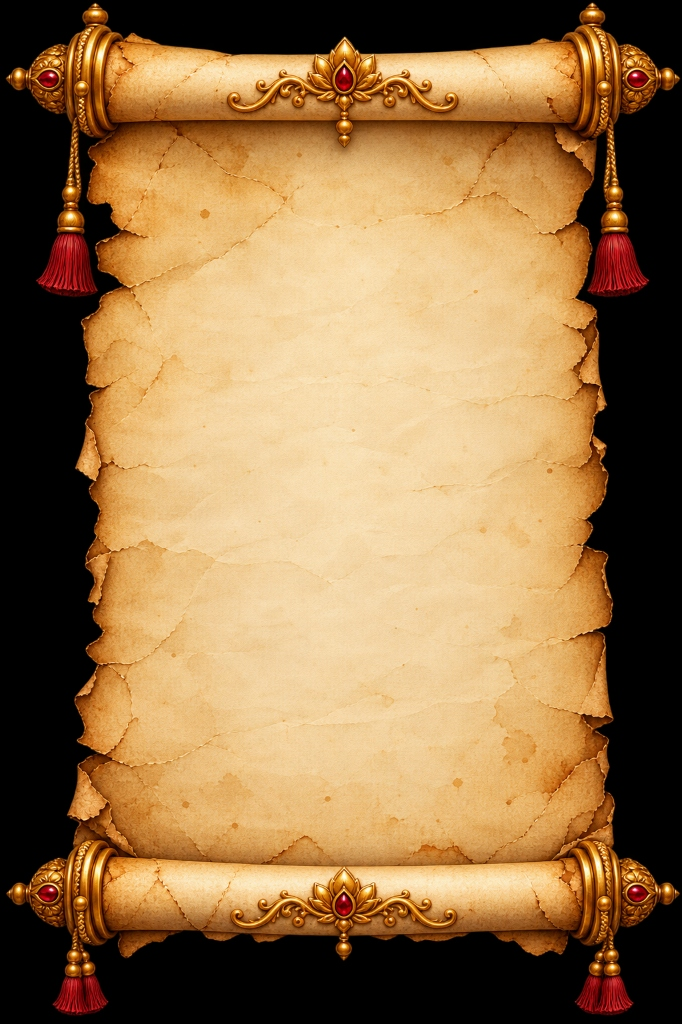
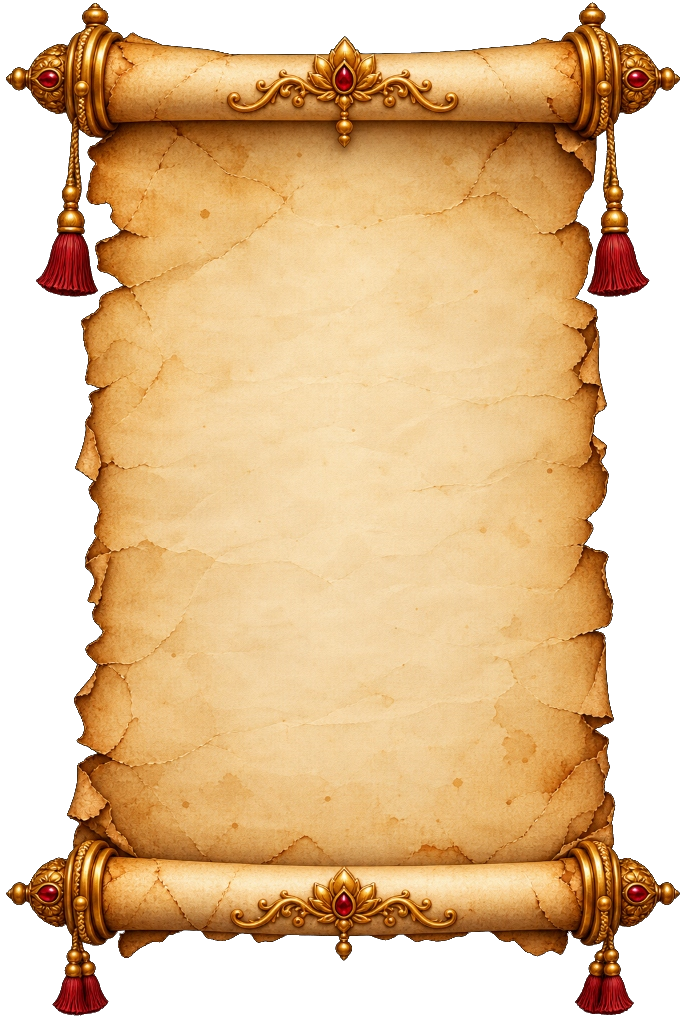
Fix parchment scroll background to pure transparent PNG and refine modal styling

diff --git a/css/style.css b/css/style.css
@@ -2426,14 +2426,14 @@ body {
 .guide-scroll-backdrop {
   position: fixed;
   inset: 0;
-  background: rgba(18, 6, 3, 0.82);
+  background: radial-gradient(circle at 50% 45%, rgba(45, 18, 10, 0.65) 0%, rgba(15, 5, 2, 0.82) 100%);
   backdrop-filter: blur(8px);
   -webkit-backdrop-filter: blur(8px);
-  z-index: 220;
+  z-index: 250;
   display: flex;
   justify-content: center;
   align-items: center;
-  padding: 12px;
+  padding: 10px;
   opacity: 0;
   pointer-events: none;
   transition: opacity 0.4s cubic-bezier(0.16, 1, 0.3, 1);
@@ -2448,29 +2448,29 @@ body {
   position: relative;
   width: 100%;
   max-width: 400px;
-  height: 620px;
+  aspect-ratio: 682 / 1024;
   max-height: 92vh;
   max-height: 92dvh;
   display: flex;
   justify-content: center;
   align-items: center;
-  transform: scale(0.85) translateY(24px);
+  transform: scale(0.88) translateY(20px);
   transition: transform 0.45s cubic-bezier(0.175, 0.885, 0.32, 1.25);
-  filter: drop-shadow(0 20px 40px rgba(0, 0, 0, 0.85));
+  filter: drop-shadow(0 15px 35px rgba(0, 0, 0, 0.75)) drop-shadow(0 0 20px rgba(245, 158, 11, 0.2));
 }
 
 .guide-scroll-backdrop.active .parchment-scroll-container {
   transform: scale(1) translateY(0);
 }
 
-/* Background image of the parchment scroll */
+/* Background image of the transparent parchment scroll */
 .parchment-bg-img {
   position: absolute;
   top: 0;
   left: 0;
   width: 100%;
   height: 100%;
-  object-fit: fill;
+  object-fit: contain;
   pointer-events: none;
   z-index: 1;
 }
@@ -2478,64 +2478,58 @@ body {
 /* Close button on top-right of the parchment */
 .parchment-close-btn {
   position: absolute;
-  top: 8px;
-  right: 12px;
-  width: 34px;
-  height: 34px;
+  top: 4%;
+  right: 5%;
+  width: 32px;
+  height: 32px;
   border-radius: 50%;
-  background: rgba(74, 21, 10, 0.85);
+  background: rgba(90, 20, 10, 0.9);
   border: 1.5px solid #F59E0B;
   color: #FFFDF9;
-  font-size: 1.4rem;
+  font-size: 1.25rem;
   line-height: 1;
   display: flex;
   align-items: center;
   justify-content: center;
   cursor: pointer;
   z-index: 10;
-  box-shadow: 0 4px 12px rgba(0, 0, 0, 0.4);
+  box-shadow: 0 4px 14px rgba(0, 0, 0, 0.5);
   transition: all 0.2s ease;
 }
 
 .parchment-close-btn:hover {
   background: var(--color-saffron);
-  transform: scale(1.08);
+  transform: scale(1.1);
 }
 
-/* Inner content area strictly inside the parchment roll bounds */
+/* Inner content area strictly inside the 2:3 parchment paper boundaries */
 .parchment-content-body {
   position: relative;
   z-index: 2;
   width: 100%;
   height: 100%;
-  padding: 85px 36px 75px 36px;
+  padding: 16.5% 17% 17.5% 17%;
   display: flex;
   flex-direction: column;
   justify-content: space-between;
   overflow-y: auto;
-  scrollbar-width: thin;
-  scrollbar-color: rgba(123, 30, 16, 0.35) transparent;
+  scrollbar-width: none;
 }
 
 .parchment-content-body::-webkit-scrollbar {
-  width: 4px;
-}
-
-.parchment-content-body::-webkit-scrollbar-thumb {
-  background: rgba(123, 30, 16, 0.35);
-  border-radius: 4px;
+  display: none;
 }
 
 /* Parchment Header */
 .parchment-header {
   text-align: center;
-  margin-bottom: 8px;
+  margin-bottom: 4px;
 }
 
 .parchment-om-badge {
   display: inline-block;
   font-family: var(--font-heading);
-  font-size: 0.82rem;
+  font-size: 0.76rem;
   font-weight: 700;
   color: #7B1E10;
   letter-spacing: 1px;
@@ -2544,17 +2538,17 @@ body {
 
 .parchment-title {
   font-family: var(--font-heading);
-  font-size: 1.25rem;
-  line-height: 1.25;
-  color: #4A150A;
-  margin-bottom: 4px;
-  text-shadow: 0 1px 1px rgba(255, 255, 255, 0.6);
+  font-size: 1.15rem;
+  line-height: 1.2;
+  color: #3E1006;
+  margin-bottom: 3px;
+  text-shadow: 0 1px 1px rgba(255, 255, 255, 0.7);
 }
 
 .parchment-intro {
-  font-size: 0.76rem;
-  line-height: 1.35;
-  color: #6E2D1D;
+  font-size: 0.68rem;
+  line-height: 1.3;
+  color: #632213;
   font-weight: 500;
 }
 
@@ -2562,43 +2556,43 @@ body {
 .parchment-steps-list {
   display: flex;
   flex-direction: column;
-  gap: 8px;
-  margin: 6px 0;
+  gap: 7px;
+  margin: 4px 0;
 }
 
 .parchment-step-item {
   display: flex;
   align-items: center;
-  gap: 12px;
-  background: rgba(255, 255, 255, 0.45);
-  border: 1px solid rgba(192, 122, 16, 0.3);
-  border-radius: 12px;
-  padding: 7px 10px;
-  box-shadow: 0 2px 6px rgba(123, 30, 16, 0.05);
+  gap: 10px;
+  background: rgba(255, 248, 235, 0.55);
+  border: 1px solid rgba(192, 122, 16, 0.35);
+  border-radius: 10px;
+  padding: 6px 9px;
+  box-shadow: 0 2px 5px rgba(123, 30, 16, 0.04);
 }
 
 .step-icon-wrap {
   flex-shrink: 0;
-  width: 38px;
-  height: 42px;
+  width: 34px;
+  height: 36px;
   display: flex;
   align-items: center;
   justify-content: center;
-  background: rgba(251, 244, 230, 0.9);
-  border: 1px solid rgba(217, 119, 6, 0.4);
-  border-radius: 8px;
+  background: rgba(255, 255, 255, 0.75);
+  border: 1px solid rgba(217, 119, 6, 0.45);
+  border-radius: 7px;
   padding: 2px;
 }
 
 .step-guide-icon {
-  width: 28px;
-  height: auto;
+  width: 22px;
+  height: 26px;
   object-fit: contain;
 }
 
 .step-wa-icon {
-  width: 24px;
-  height: 24px;
+  width: 20px;
+  height: 20px;
 }
 
 .step-lang-badge-icon {
@@ -2606,14 +2600,14 @@ body {
   flex-direction: column;
   align-items: center;
   justify-content: center;
-  font-size: 0.62rem;
+  font-size: 0.58rem;
   font-weight: 700;
   color: #7B1E10;
-  line-height: 1.1;
+  line-height: 1.05;
 }
 
 .step-lang-badge-icon .dot {
-  font-size: 0.5rem;
+  font-size: 0.45rem;
   color: #D9480F;
   margin: -1px 0;
 }
@@ -2625,17 +2619,17 @@ body {
 
 .step-heading {
   font-family: var(--font-body);
-  font-size: 0.8rem;
+  font-size: 0.74rem;
   font-weight: 700;
-  color: #4A150A;
-  margin-bottom: 2px;
+  color: #3E1006;
+  margin-bottom: 1px;
   line-height: 1.2;
 }
 
 .step-desc {
-  font-size: 0.69rem;
-  line-height: 1.3;
-  color: #601A0E;
+  font-size: 0.62rem;
+  line-height: 1.25;
+  color: #5C1D0F;
 }
 
 .step-desc strong {
@@ -2644,97 +2638,78 @@ body {
 
 /* Proceed CTA button */
 .parchment-action-wrap {
-  margin-top: 6px;
+  margin-top: 4px;
   text-align: center;
 }
 
 .parchment-proceed-btn {
   width: 100%;
-  background: linear-gradient(135deg, #DC2626 0%, #D9480F 50%, #B45309 100%);
+  background: linear-gradient(135deg, #C22020 0%, #D9480F 50%, #A14205 100%);
   color: #FFFFFF;
   font-family: var(--font-body);
-  font-size: 0.88rem;
+  font-size: 0.82rem;
   font-weight: 700;
-  letter-spacing: 0.5px;
-  padding: 10px 16px;
-  border-radius: 12px;
-  border: 1px solid rgba(255, 215, 0, 0.5);
-  box-shadow: 0 4px 14px rgba(180, 40, 10, 0.35);
+  letter-spacing: 0.4px;
+  padding: 8px 12px;
+  border-radius: 10px;
+  border: 1px solid rgba(255, 220, 100, 0.6);
+  box-shadow: 0 4px 12px rgba(180, 40, 10, 0.35);
   cursor: pointer;
   transition: transform 0.15s ease, box-shadow 0.15s ease;
 }
 
 .parchment-proceed-btn:hover {
   transform: translateY(-1px);
-  box-shadow: 0 6px 18px rgba(180, 40, 10, 0.45);
+  box-shadow: 0 6px 16px rgba(180, 40, 10, 0.45);
 }
 
 .parchment-proceed-btn:active {
   transform: translateY(1px);
 }
 
-/* Compact Responsive Adjustments for Mobile Viewports */
-@media (max-width: 480px) {
+/* Ultra-compact screen adaptations */
+@media (max-height: 650px) or (max-width: 360px) {
   .parchment-scroll-container {
-    max-width: 360px;
-    height: 590px;
+    max-width: 330px;
   }
 
   .parchment-content-body {
-    padding: 78px 30px 68px 30px;
+    padding: 17% 17.5% 18% 17.5%;
   }
 
   .parchment-title {
-    font-size: 1.15rem;
+    font-size: 1rem;
   }
 
   .parchment-intro {
-    font-size: 0.72rem;
+    font-size: 0.6rem;
   }
 
   .parchment-steps-list {
-    gap: 6px;
+    gap: 4px;
   }
 
   .parchment-step-item {
-    padding: 6px 8px;
-    gap: 9px;
+    padding: 4px 6px;
+    gap: 7px;
   }
 
   .step-icon-wrap {
-    width: 34px;
-    height: 38px;
+    width: 28px;
+    height: 30px;
   }
 
   .step-heading {
-    font-size: 0.76rem;
+    font-size: 0.68rem;
   }
 
   .step-desc {
-    font-size: 0.65rem;
+    font-size: 0.58rem;
   }
 
   .parchment-proceed-btn {
-    font-size: 0.82rem;
-    padding: 8px 14px;
-  }
-}
-
-@media (max-height: 700px) {
-  .parchment-scroll-container {
-    height: 540px;
-  }
-
-  .parchment-content-body {
-    padding: 70px 26px 60px 26px;
-  }
-
-  .parchment-title {
-    font-size: 1.05rem;
-  }
-
-  .step-desc {
-    font-size: 0.62rem;
+    font-size: 0.75rem;
+    padding: 6px 10px;
   }
 }
 
